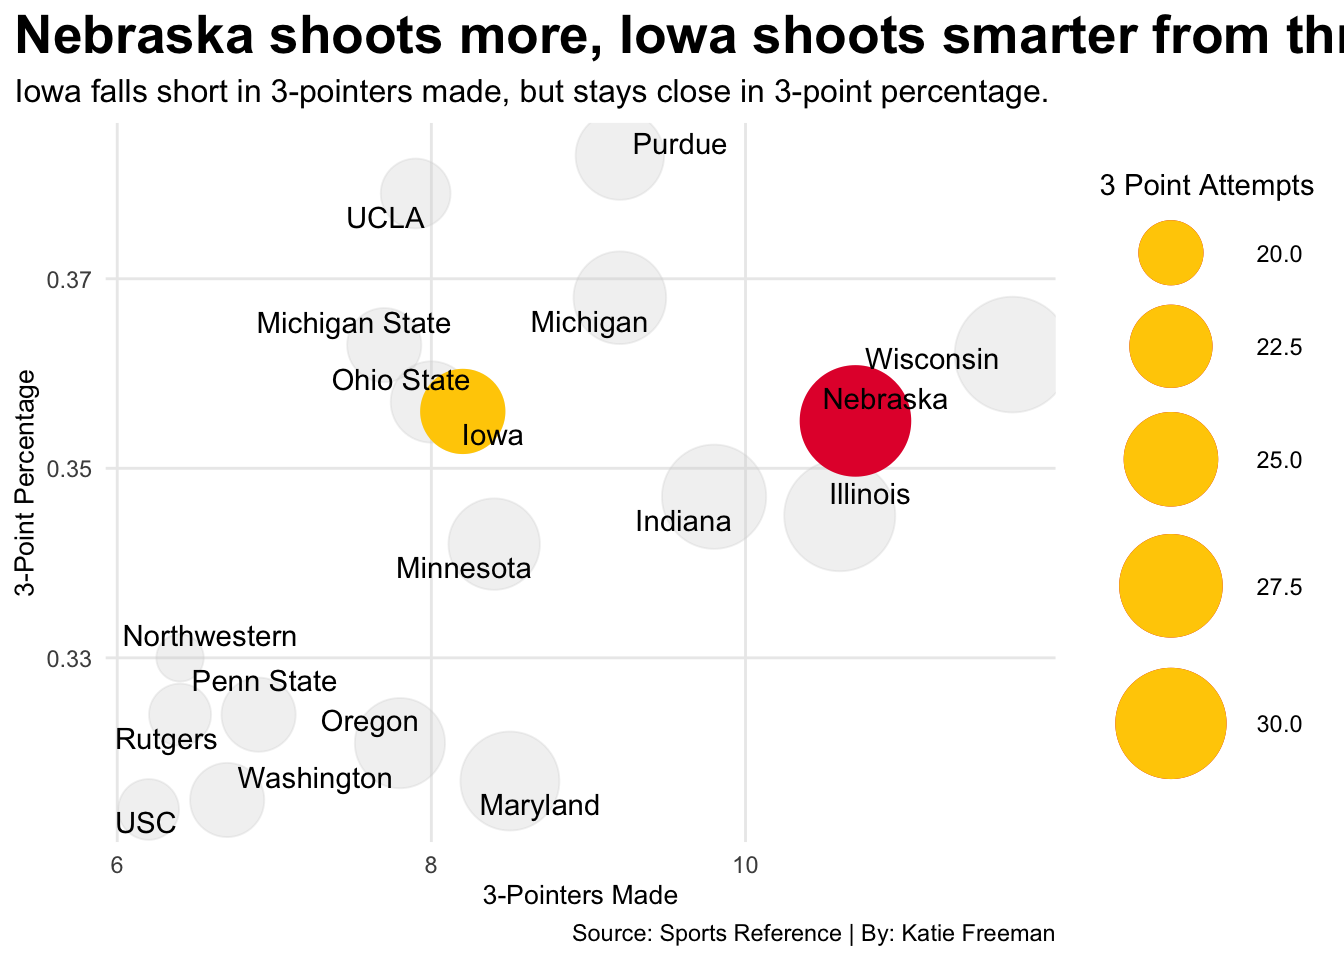
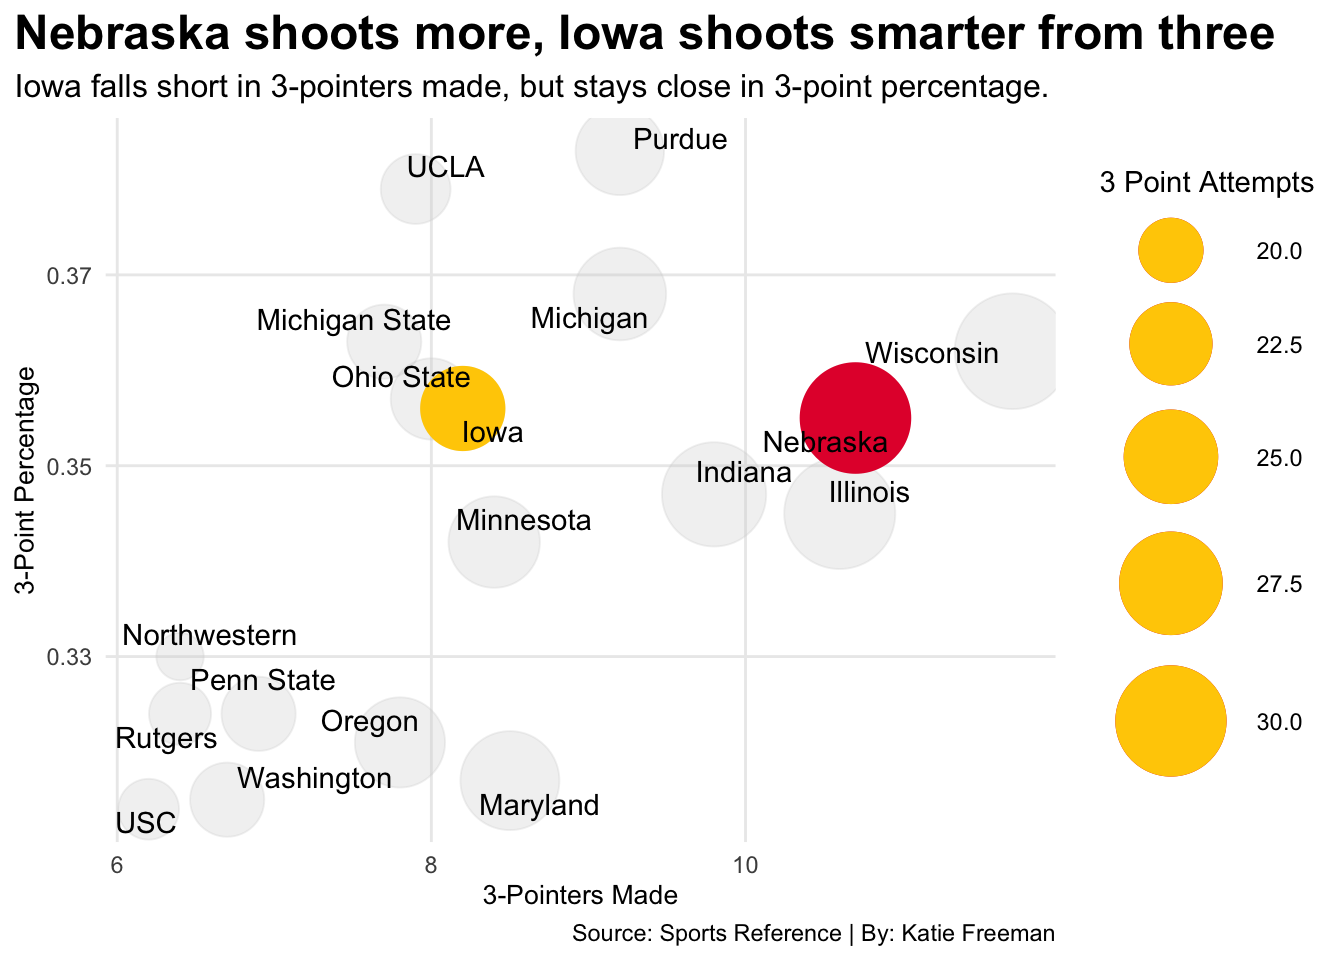
changes

diff --git a/posts/nebraska-iowa-mens-basketball/index.html b/posts/nebraska-iowa-mens-basketball/index.html
@@ -526,7 +526,7 @@ pre > code.sourceCode > span > a:first-child::before { text-decoration: underlin
 <span id="cb5-28"><a href="#cb5-28" aria-hidden="true" tabindex="-1"></a>    ) <span class="sc">+</span></span>
 <span id="cb5-29"><a href="#cb5-29" aria-hidden="true" tabindex="-1"></a>  <span class="fu">theme_minimal</span>() <span class="sc">+</span> </span>
 <span id="cb5-30"><a href="#cb5-30" aria-hidden="true" tabindex="-1"></a>  <span class="fu">theme</span>(</span>
-<span id="cb5-31"><a href="#cb5-31" aria-hidden="true" tabindex="-1"></a>    <span class="at">plot.title =</span> <span class="fu">element_text</span>(<span class="at">size =</span> <span class="dv">20</span>, <span class="at">face =</span> <span class="st">"bold"</span>),</span>
+<span id="cb5-31"><a href="#cb5-31" aria-hidden="true" tabindex="-1"></a>    <span class="at">plot.title =</span> <span class="fu">element_text</span>(<span class="at">size =</span> <span class="dv">18</span>, <span class="at">face =</span> <span class="st">"bold"</span>),</span>
 <span id="cb5-32"><a href="#cb5-32" aria-hidden="true" tabindex="-1"></a>    <span class="at">axis.title =</span> <span class="fu">element_text</span>(<span class="at">size =</span> <span class="dv">10</span>), </span>
 <span id="cb5-33"><a href="#cb5-33" aria-hidden="true" tabindex="-1"></a>    <span class="at">plot.subtitle =</span> <span class="fu">element_text</span>(<span class="at">size=</span><span class="dv">12</span>), </span>
 <span id="cb5-34"><a href="#cb5-34" aria-hidden="true" tabindex="-1"></a>    <span class="at">panel.grid.minor =</span> <span class="fu">element_blank</span>(),</span>

diff --git a/index.html b/index.html
@@ -373,7 +373,7 @@ window.Quarto = {
 
 <div class="quarto-listing quarto-listing-container-default" id="listing-listing">
 <div class="list quarto-listing-default">
-<div class="quarto-post image-right" data-index="0" data-categories="YmlndGVuJTJDYmFza2V0YmFsbCUyQ25lYnJhc2thJTJDaW93YQ==" data-listing-date-sort="1777266000000" data-listing-file-modified-sort="1777325698344" data-listing-date-modified-sort="NaN" data-listing-reading-time-sort="6" data-listing-word-count-sort="1134">
+<div class="quarto-post image-right" data-index="0" data-categories="YmlndGVuJTJDYmFza2V0YmFsbCUyQ25lYnJhc2thJTJDaW93YQ==" data-listing-date-sort="1777266000000" data-listing-file-modified-sort="1777325804861" data-listing-date-modified-sort="NaN" data-listing-reading-time-sort="6" data-listing-word-count-sort="1134">
 <div class="thumbnail"><a href="./posts/nebraska-iowa-mens-basketball/index.html" class="no-external">
 
 <img loading="lazy" src="./posts/nebraska-iowa-mens-basketball/image.png" class="thumbnail-image">
